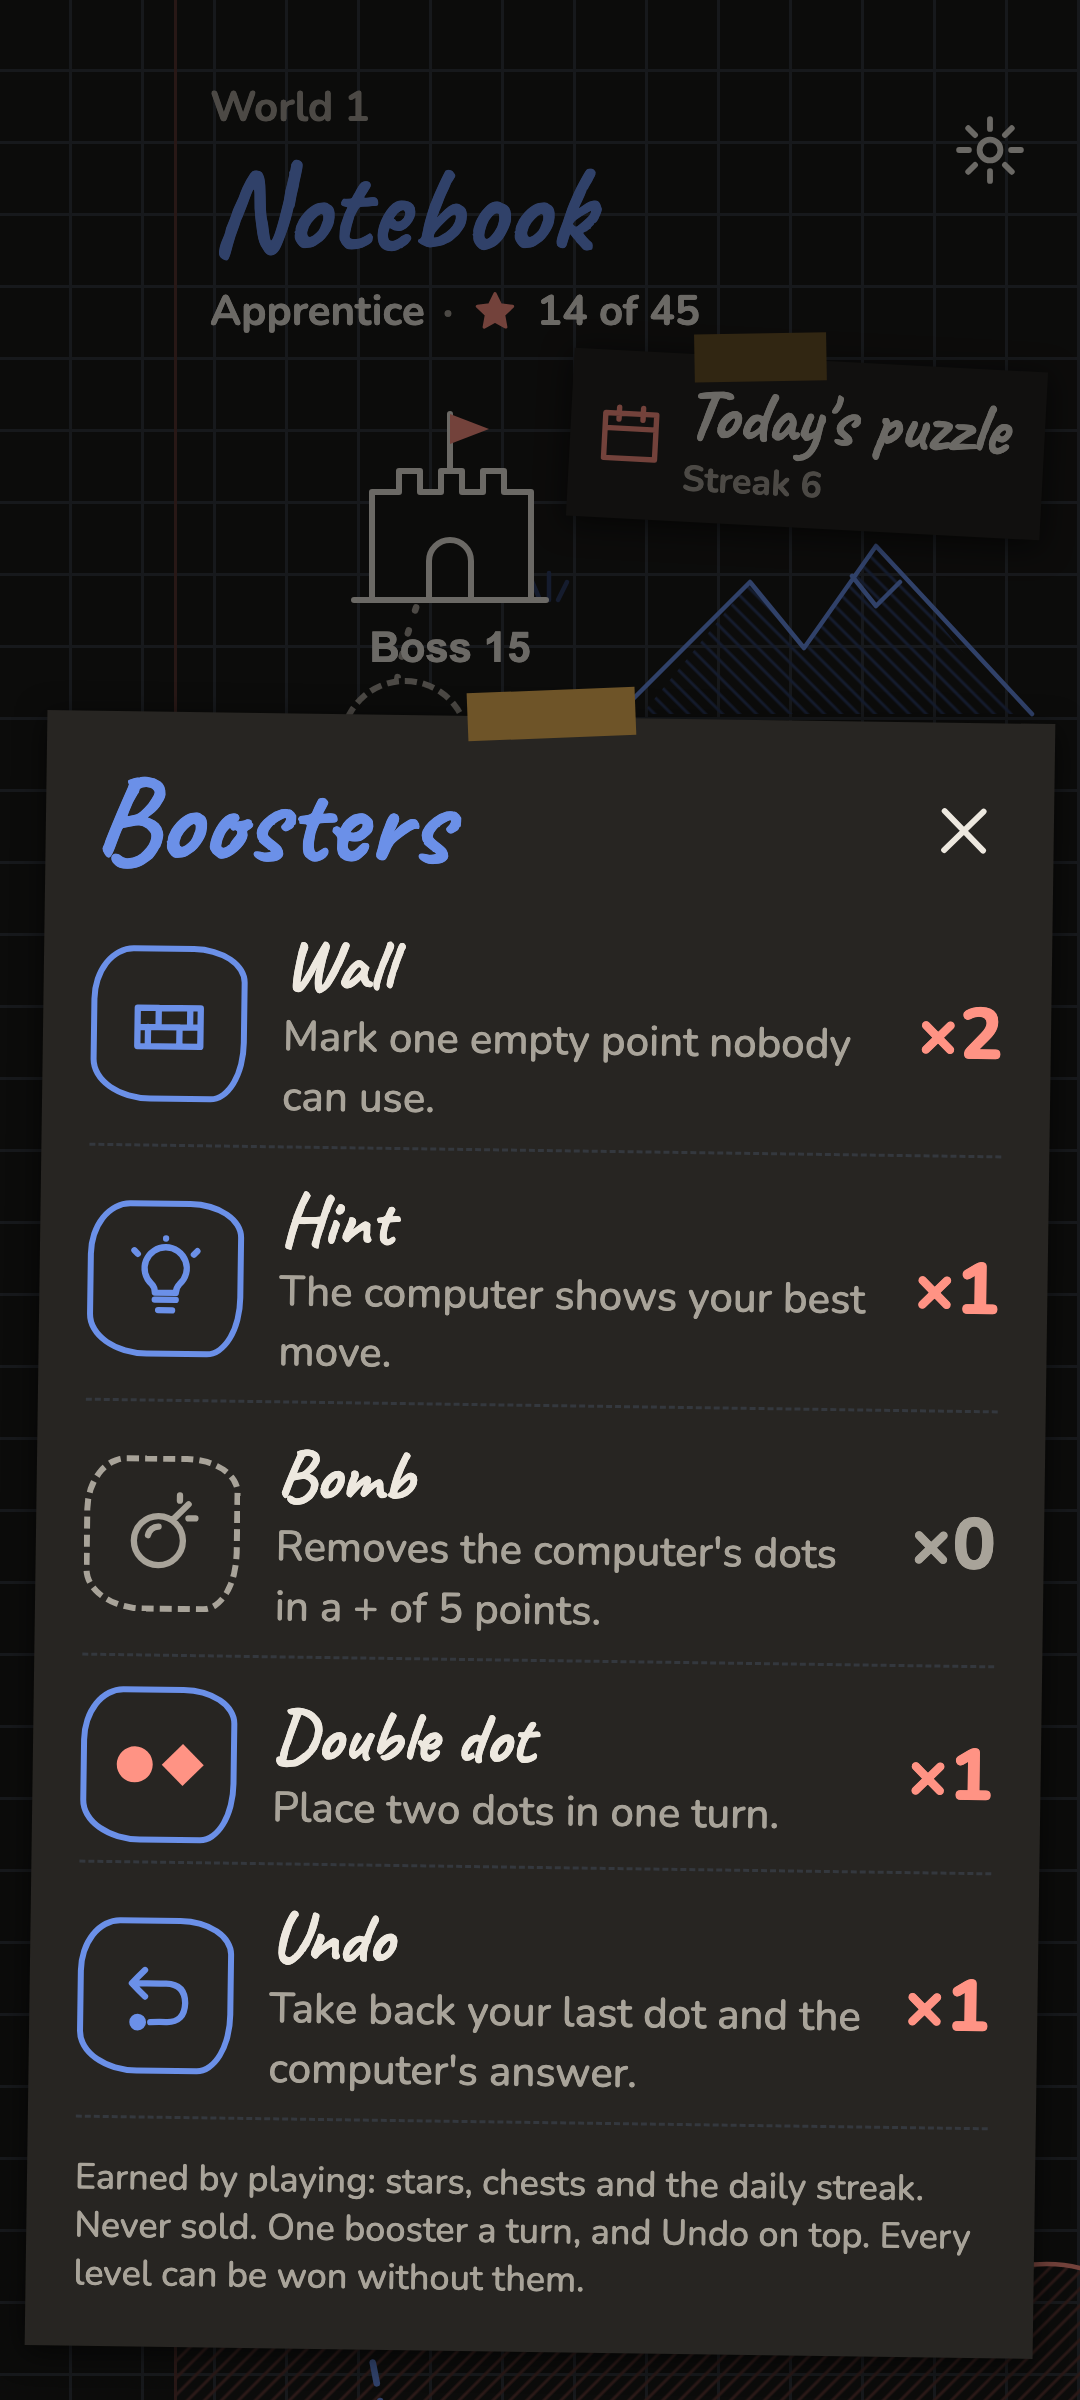
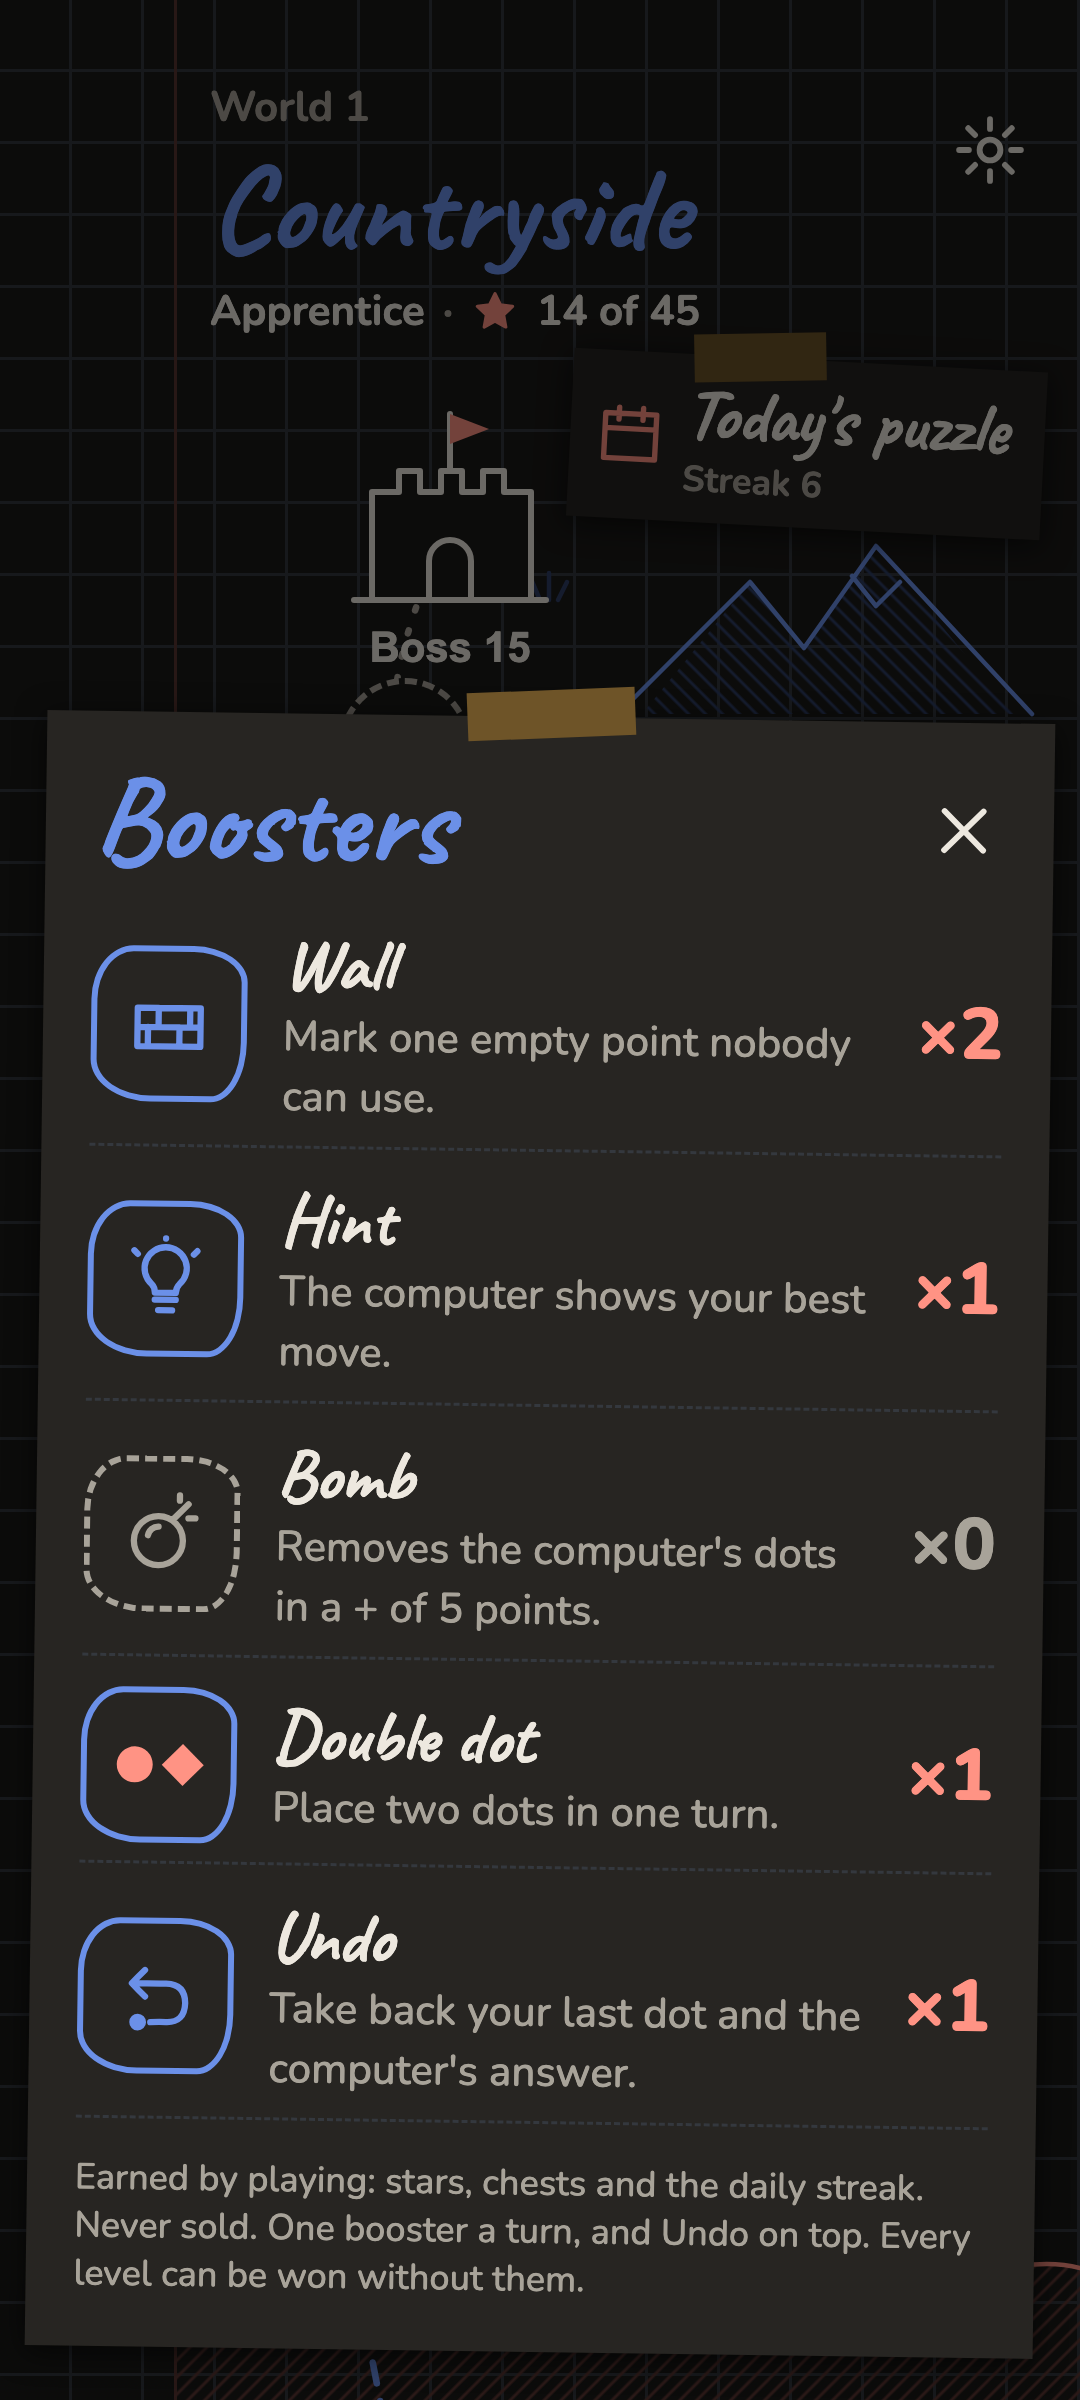
A-22 World 1 is called Countryside
Decision 0028 gives World 1 the name Countryside, so no world and no theme
share a name. The engine's world list, the map header test and the canvas
frames that show the map header (map, level card, boosters) follow.

Changed region(s): [[0.2139, 0.0625, 0.6417, 0.125]]

diff --git a/app/src/test/kotlin/io/github/pavelya/dots/ui/screen/MapScreenTest.kt b/app/src/test/kotlin/io/github/pavelya/dots/ui/screen/MapScreenTest.kt
@@ -65,7 +65,7 @@ class MapScreenTest {
         show(Progress.NONE)
 
         compose.onNodeWithContentDescription("Level 1-1, next").assertIsDisplayed()
-        compose.onNodeWithContentDescription("World 1, Notebook, Novice, 0 of 45 stars").assertIsDisplayed()
+        compose.onNodeWithContentDescription("World 1, Countryside, Novice, 0 of 45 stars").assertIsDisplayed()
         capture("map_new_player")
     }
 
@@ -174,7 +174,7 @@ class MapScreenTest {
         show(SampleProgress.worldNeedsStars)
 
         compose.onNodeWithText("Stars needed: 20. You have 15.").assertIsDisplayed()
-        compose.onNodeWithContentDescription("World 1, Notebook, Apprentice, 15 of 45 stars").assertIsDisplayed()
+        compose.onNodeWithContentDescription("World 1, Countryside, Apprentice, 15 of 45 stars").assertIsDisplayed()
         capture("map_world_needs_stars")
 
         compose.onNodeWithText("Garden").performClick()
@@ -186,7 +186,7 @@ class MapScreenTest {
     fun `the title shows beside the stars, and the chest after level 10 is ready once it is passed`() {
         show(Progress(Campaign.levels.take(10).associate { it.code to 2 }))
 
-        compose.onNodeWithContentDescription("World 1, Notebook, Apprentice, 20 of 45 stars").assertIsDisplayed()
+        compose.onNodeWithContentDescription("World 1, Countryside, Apprentice, 20 of 45 stars").assertIsDisplayed()
         compose.onNodeWithContentDescription("Chest after level 1-10, ready to open").assertIsDisplayed()
         capture("map_chest_ready")
 

diff --git a/app/src/main/kotlin/io/github/pavelya/dots/audio/Sounds.kt b/app/src/main/kotlin/io/github/pavelya/dots/audio/Sounds.kt
@@ -79,7 +79,7 @@ enum class Track(val file: String) {
     val asset: String get() = "audio/$file.ogg"
 
     companion object {
-        /** The boards' track of [world]: World 1 has the notebook, World 4 the sea; a world after those has the notebook. */
+        /** The boards' track of [world]: World 1 has the notebook track, World 4 the sea; a world after those has the notebook track. */
         fun ofWorld(world: Int): Track = when (world) {
             2 -> GARDEN
             3 -> NIGHT_SKY

diff --git a/engine/src/main/kotlin/dots/campaign/World.kt b/engine/src/main/kotlin/dots/campaign/World.kt
@@ -22,7 +22,7 @@ data class World(val number: Int, val name: String, val starsToOpen: Int, val le
          * few for more stars is.
          */
         internal val NAMES_AND_STARS = listOf(
-            "Notebook" to 0,
+            "Countryside" to 0,
             "Garden" to 20,
             "Night sky" to 45,
             "Sea" to 75,

diff --git a/docs/design/canvas/draw.py b/docs/design/canvas/draw.py
@@ -1230,7 +1230,7 @@ STOPS = [  # (level, x, y, state, stars)
 STOPS_LATE = [(lv if isinstance(lv, str) else lv + 5, x, y, st, n) for lv, x, y, st, n in STOPS]
 
 WORLDS = {  # number: (name, the player's title, the world's stars)
-    1: ("Notebook", "Apprentice", "14 of 45"),
+    1: ("Countryside", "Apprentice", "14 of 45"),
     2: ("Garden", "Apprentice", "21 of 60"),
     3: ("Night sky", "Strategist", "18 of 60"),
     4: ("Sea", "Master", "9 of 60"),
